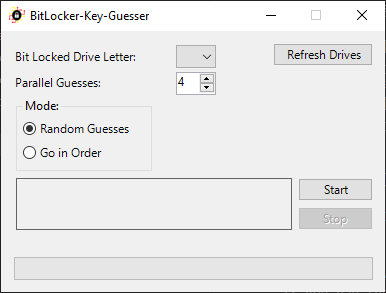
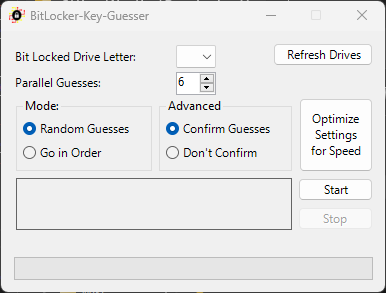
Updated README

diff --git a/README.md b/README.md
@@ -18,6 +18,10 @@ Refer to the [controls section](https://github.com/DiadNetworks/BitLocker-Key-Gu
 **Parallel Guesses:** This determines how many guesses the script will make in parallel. The value is prefilled with the number of cores in your system. You can experiment with making this 2, 3, 4 or 5 times the default, but be careful of going too high or the program may crash.  
   
 **Mode:** Here you can choose whether to attempt random guesses or to generate keys in order.  
+
+**Advanced:** You can select whether the program should wait for confirmation whether the guessed key was successful or not. If you select "Don't Confirm", the program won't know if it guessed the correct key and will continue to guess even if the drive has been unlocked. This will, however, speed up the guessing drastically.  
+
+**Optimize Settings for Speed:** Clicking this button sets the program's settings for best speed.
   
 **Info Window:** For future use.  
   
